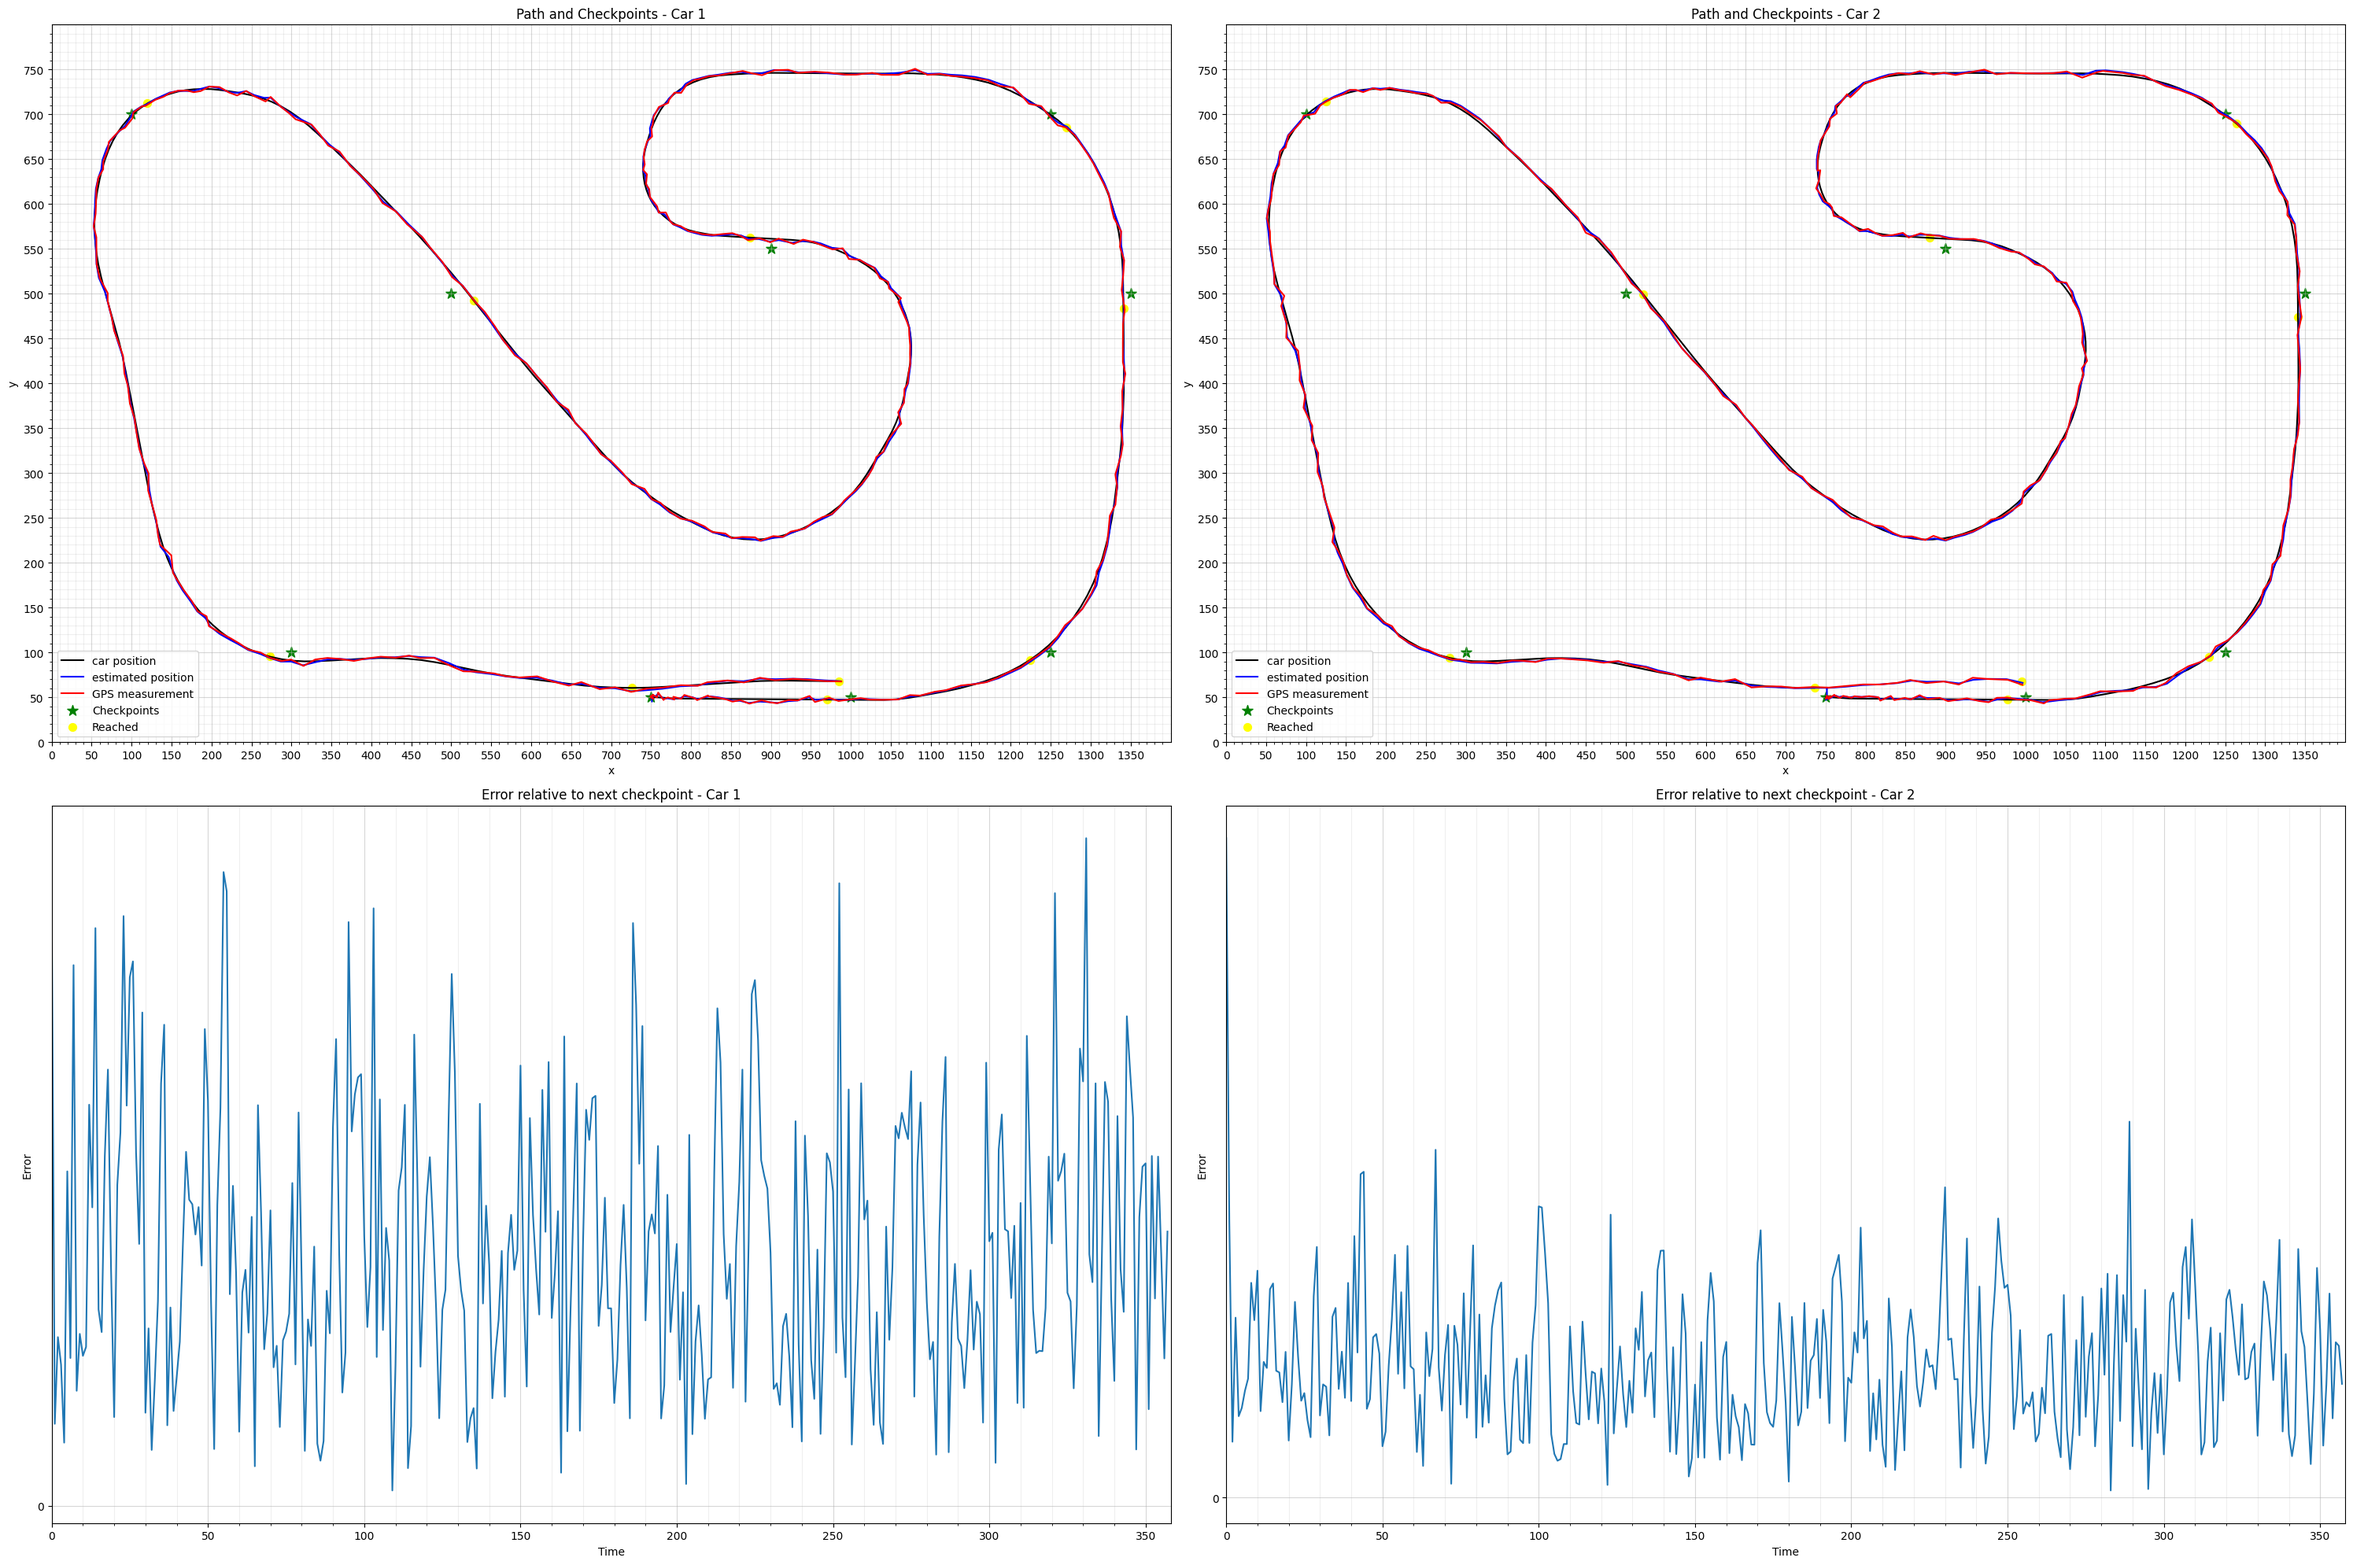
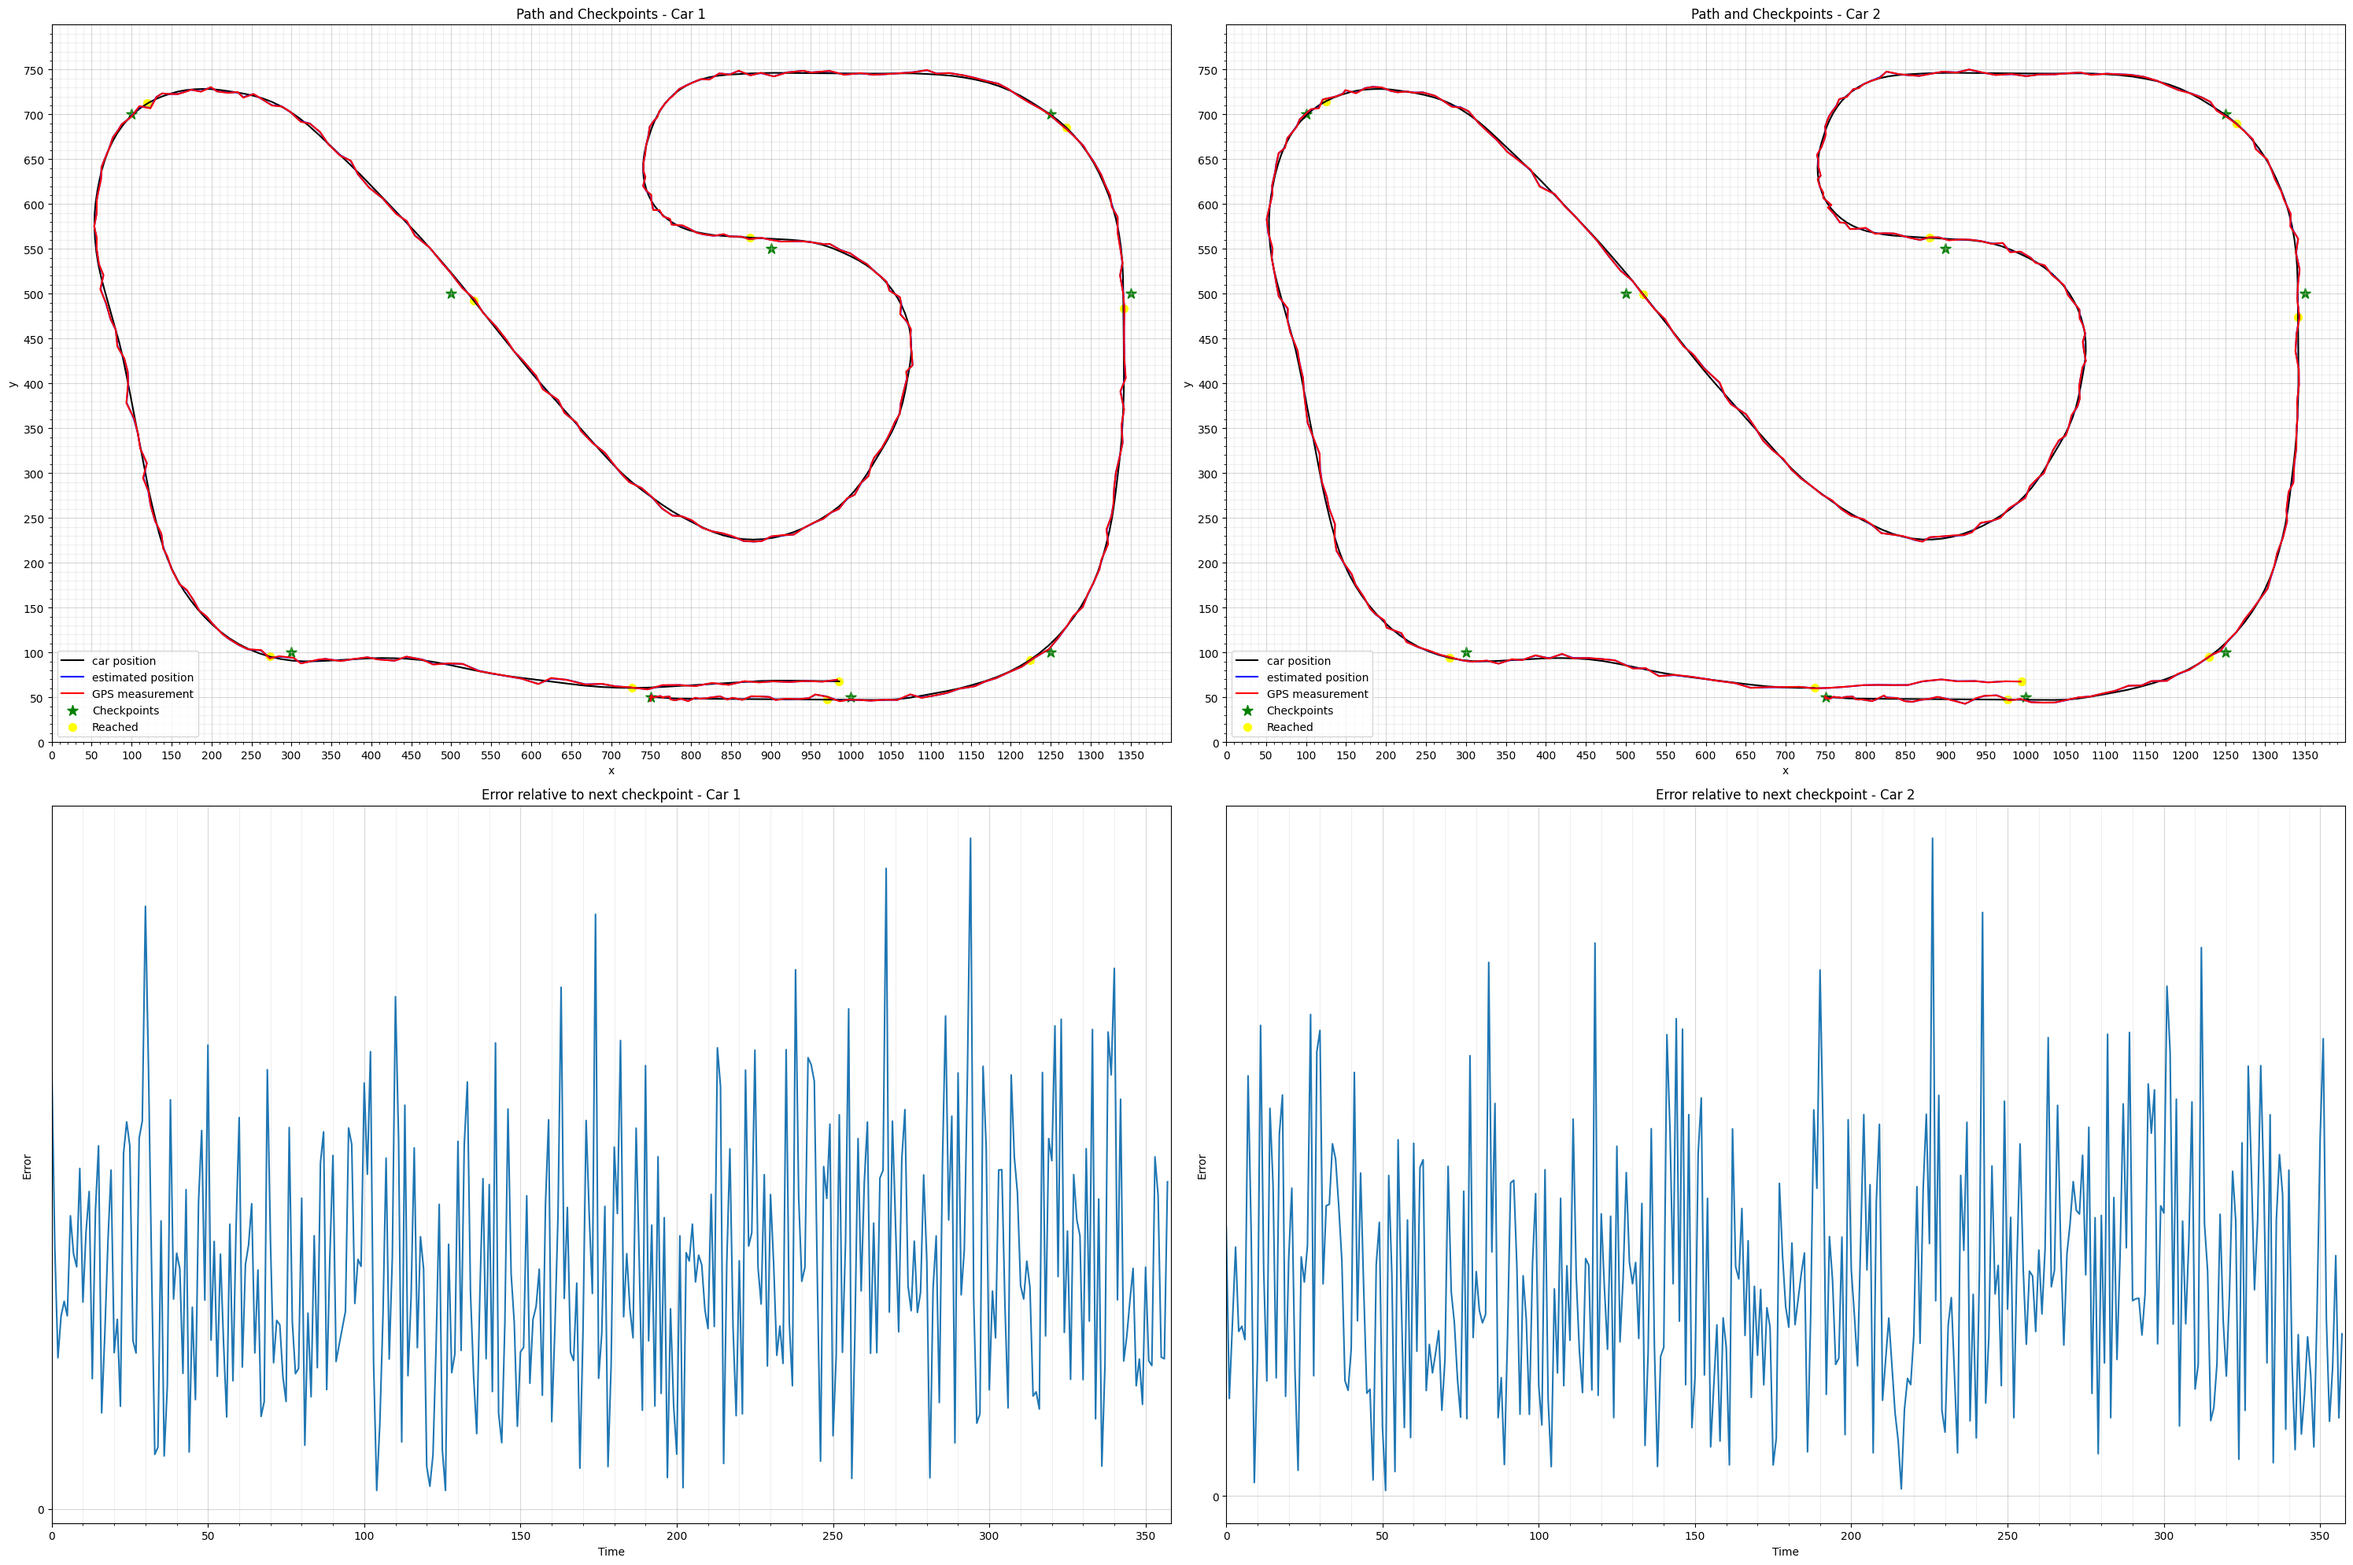
done

diff --git a/kalman_filter.py b/kalman_filter.py
@@ -19,8 +19,6 @@ class KalmanFilter:
         self.car = car
 
         # BEGIN_YOUR_CODE ######################################################
-        #intiial state matrix
-        self.kf.x = np.array([car.pos[0], car.pos[1], car.vel[0], car.vel[1]])
         #state transition matrix
         self.kf.F = np.array([[1, 0, 1, 0],
                                [0, 1, 0, 1],
@@ -33,10 +31,14 @@ class KalmanFilter:
         self.kf.R = np.array([[variance, 0],
                                [0, variance]])
         #process noise covariance
-        
-        #initial state estimate
-        
+        self.kf.Q = np.array([[1, 0, 0, 0],
+                               [0, 1, 0, 0],
+                               [0, 0, 1, 0],
+                               [0, 0, 0, 1]]) * width
+        #intial state matrix
+        self.kf.x = np.array([car.pos[0], car.pos[1], car.vel[0], car.vel[1]])
         #initial covariance matrix
+        self.kf.P = np.eye(4) * 1000
 
         # END_YOUR_CODE ########################################################
 
@@ -50,17 +52,18 @@ class KalmanFilter:
         # Prediction step
         
         # BEGIN_YOUR_CODE ######################################################
-        # Prediction step
-        self.kf.predict()
-
         # Collision check to update velocity
         self.check_collision(other_car)
+
+        # Prediction step
+        self.kf.predict()
 
         # Update step
         if which == "gaussian":
             self.kf.update(measurement)
         else:
-            # Uniform noise would be treated as a more difficult measurement update
+            self.kf.R = np.array([[2.0, 0],
+                               [0, 2.0]])
             self.kf.update(measurement)
         
         # END_YOUR_CODE ########################################################
